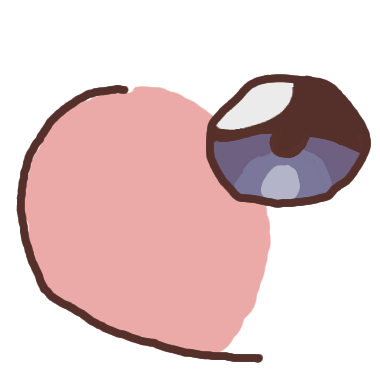
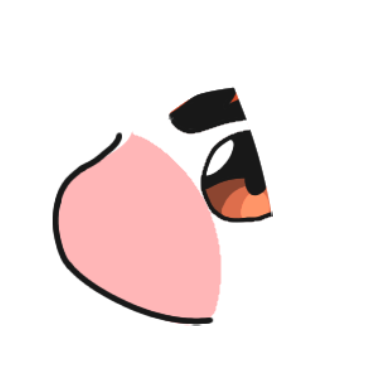
feat: Replaced every placeholder assets with final art

diff --git a/scenes/GameScene.js b/scenes/GameScene.js
@@ -66,7 +66,7 @@ class GameScene extends Phaser.Scene {
         // ===== CHEEKS =====
         const cheekX = 630;
         const cheekY = 420;
-        const cheekScale = 720 / 927;
+        const cheekScale = 1;
 
         this.cheekFrames = [];
         for (let i = 0; i < 5; i++) {
@@ -83,9 +83,10 @@ class GameScene extends Phaser.Scene {
 
         // Create all 3 hand frames, initially hidden
         this.handFrames = [];
+        const handScales = [1.4, 1.0, 0.8]; // Adjust per frame
         for (let i = 0; i < 3; i++) {
             const hand = this.add.image(0, 0, `hand-${i}`);
-            hand.setScale(handScale);
+            hand.setScale(handScale * handScales[i]);
             hand.setVisible(false);
             this.handFrames.push(hand);
         }
@@ -432,7 +433,7 @@ class GameScene extends Phaser.Scene {
         this.time.delayedCall(frameDuration, () => {
             // Position hand-0: left side of screen, bottom-aligned
             // hand-0 is 350x860, scaled to ~272x669
-            const hand0X = 0; // Left edge (will adjust based on anchor)
+            const hand0X = -40; // Left edge (will adjust based on anchor)
             const hand0Y = 720; // Bottom of screen
 
             this.handFrames[0].setOrigin(0, 1); // Bottom-left anchor
